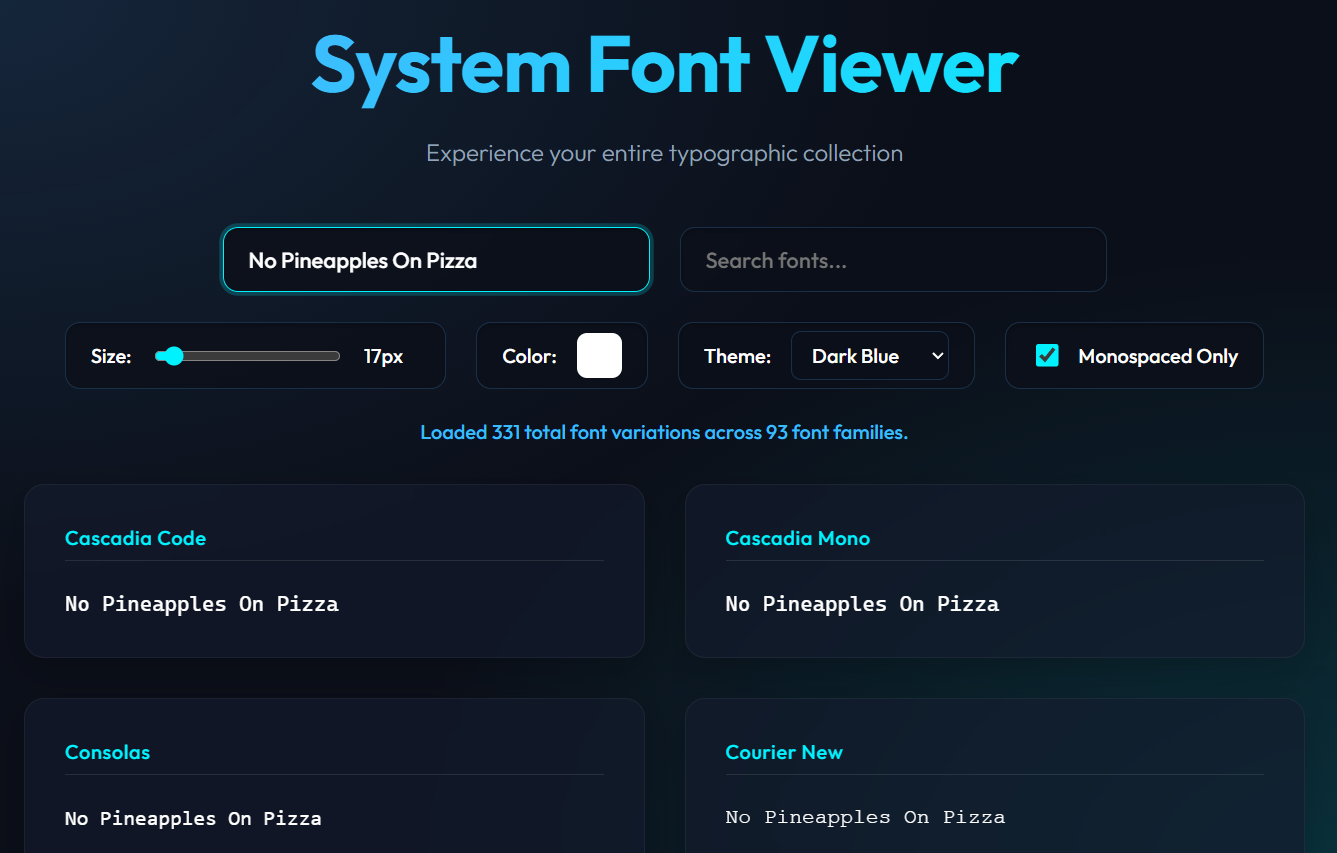
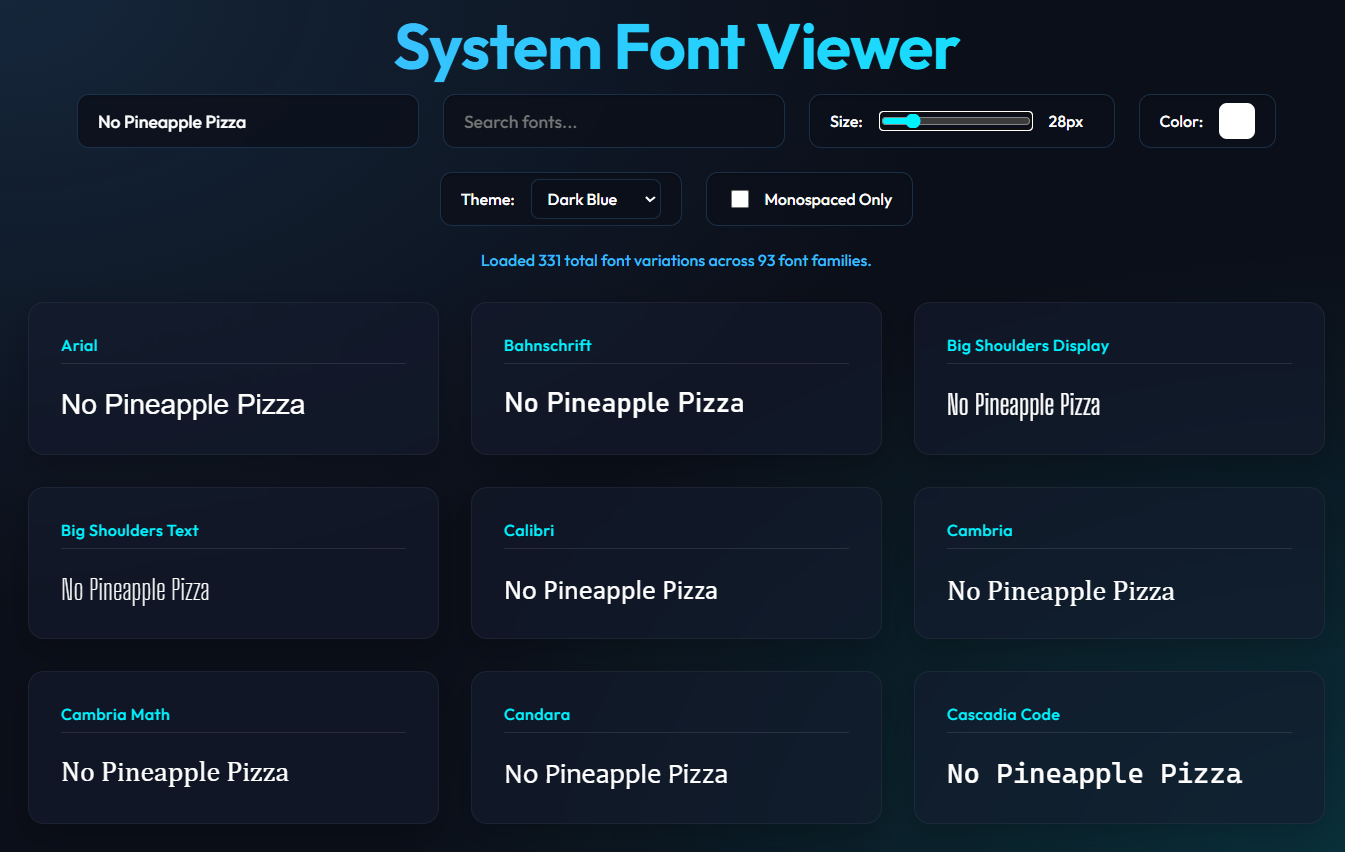
Remove subtitle and update screenshot

diff --git a/style.css b/style.css
@@ -43,15 +43,6 @@ h1 {
     animation: fadeInDown 0.8s ease-out;
 }
 
-p.subtitle {
-    text-align: center;
-    color: #94a3b8;
-    font-size: 1.2rem;
-    font-weight: 300;
-    margin-bottom: 3rem;
-    animation: fadeInUp 0.8s ease-out;
-}
-
 .controls {
     display: flex;
     justify-content: center;

diff --git a/system_fonts.html b/system_fonts.html
@@ -12,7 +12,6 @@
 <body>
     <div class="container">
         <h1>System Font Viewer</h1>
-        <p class="subtitle">Experience your entire typographic collection</p>
 
         <div class="controls">
             <button id="load-btn">Load System Fonts</button>
